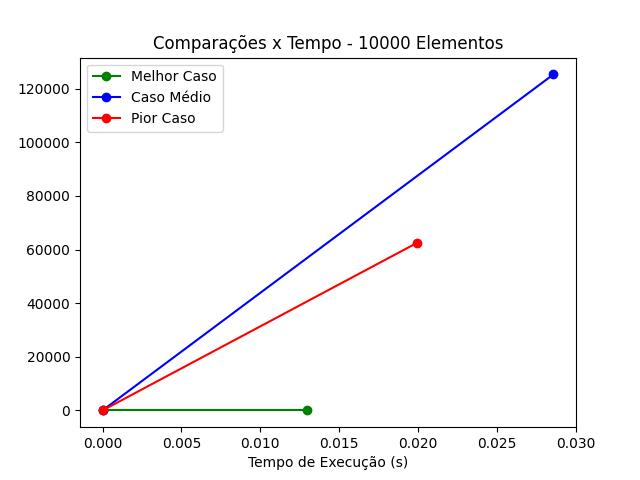
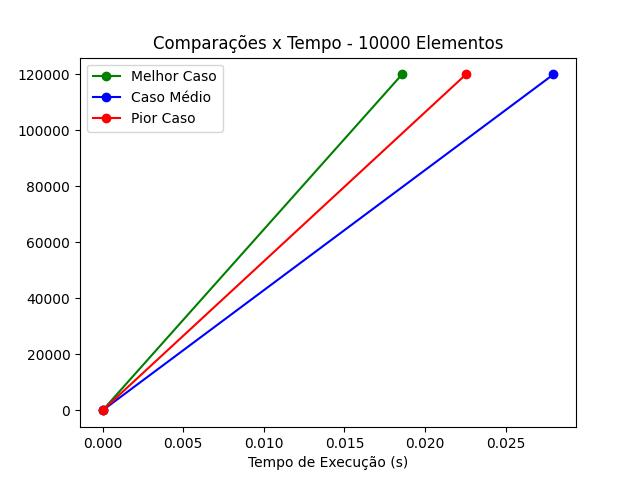
fix: qtde_compar in Shell Sort

diff --git a/algoritmos/ShellSort/shell_sort.py b/algoritmos/ShellSort/shell_sort.py
@@ -7,12 +7,13 @@ class ShellSort():
         n = len(arr)
         intervalo = n // 2
 
+        self.qtde_compar += 1
         while intervalo > 0:
             for i in range(intervalo, n):
                 temp = arr[i]
                 j = i
+                self.qtde_compar += 1
                 while j >= intervalo and arr[j - intervalo] > temp:
-                    self.qtde_compar += 1
                     arr[j] = arr[j - intervalo]
                     j -= intervalo
                 arr[j] = temp
